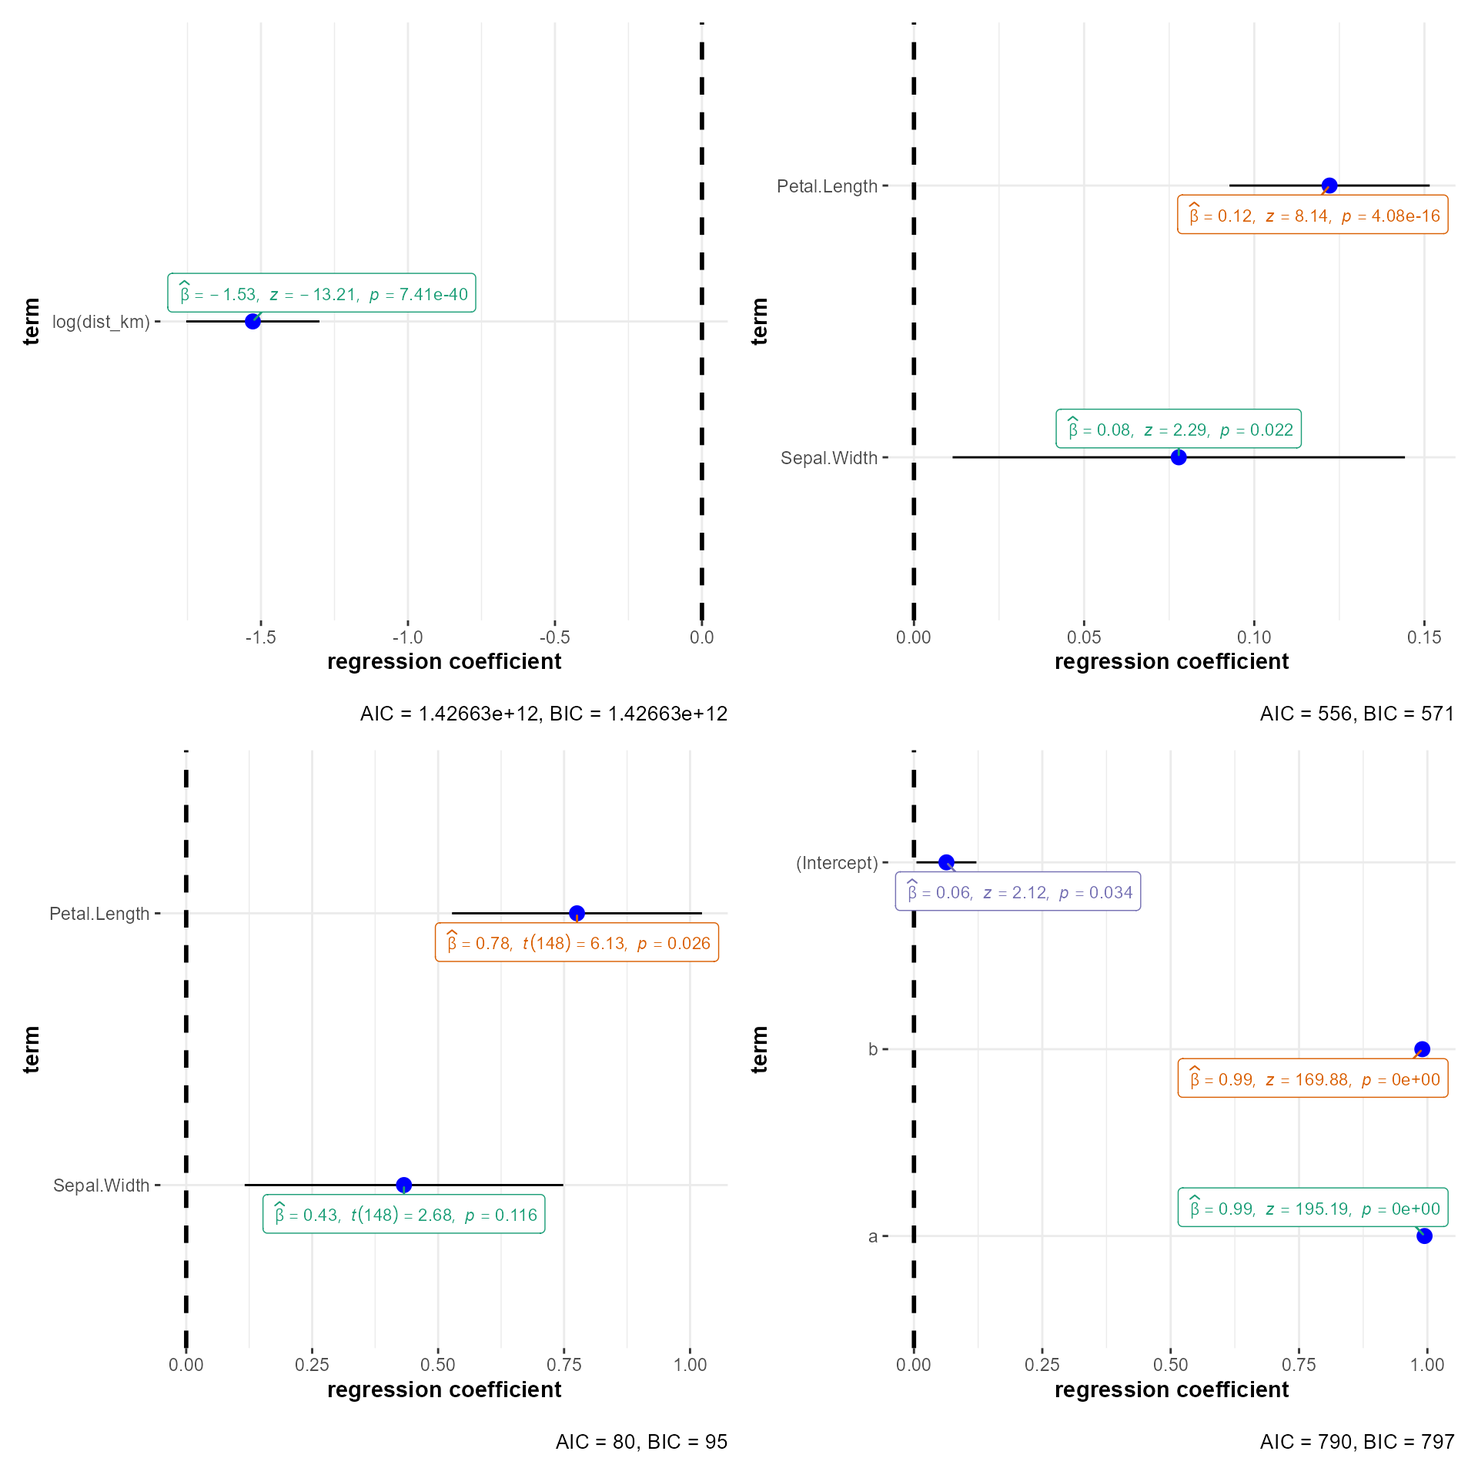
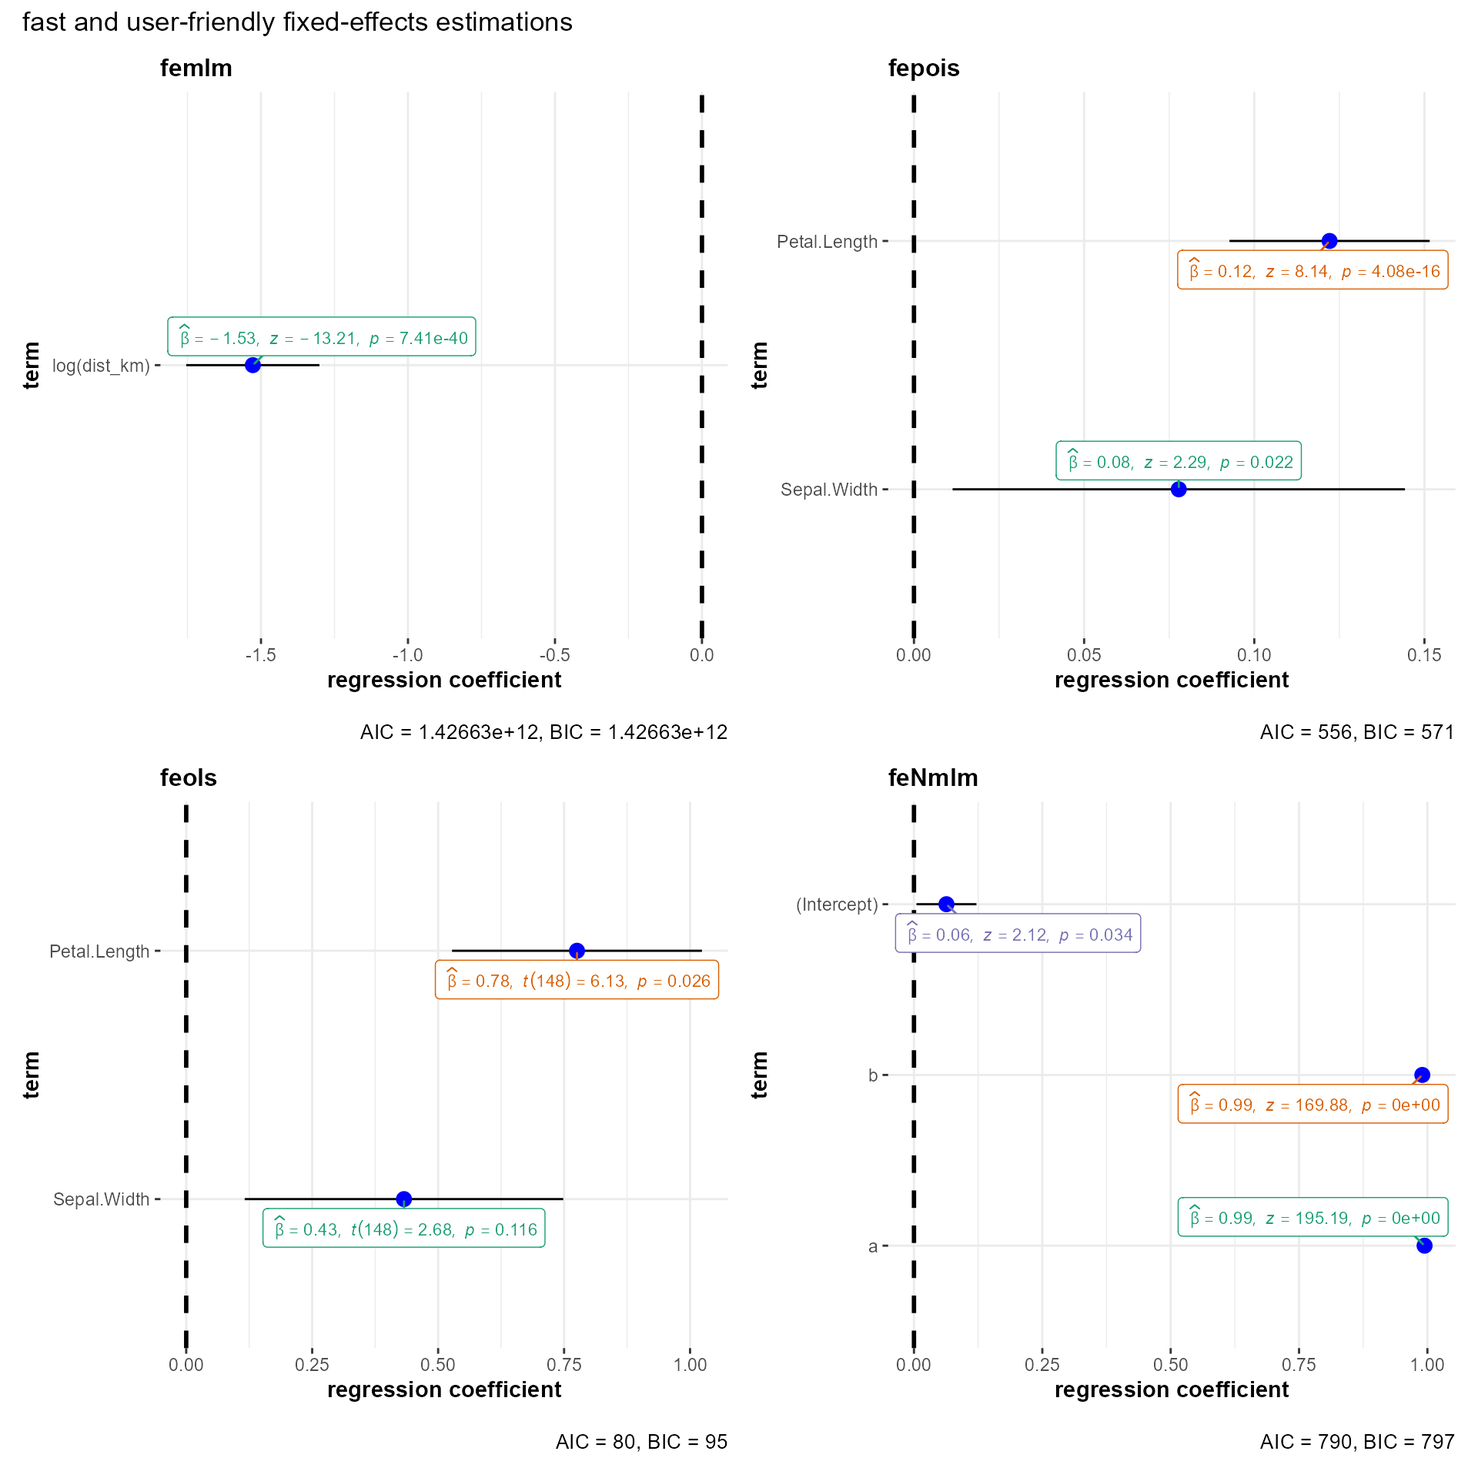
minor

diff --git a/docs/articles/web_only/ggcoefstats.html b/docs/articles/web_only/ggcoefstats.html
@@ -159,7 +159,7 @@
       <h1 data-toc-skip>ggcoefstats</h1>
                         <h4 data-toc-skip class="author">Indrajeet Patil</h4>
             
-            <h4 data-toc-skip class="date">2021-03-02</h4>
+            <h4 data-toc-skip class="date">2021-03-03</h4>
       
       <small class="dont-index">Source: <a href="https://github.com/IndrajeetPatil/ggstatsplot/blob/master/vignettes/web_only/ggcoefstats.Rmd" class="external-link"><code>vignettes/web_only/ggcoefstats.Rmd</code></a></small>
       <div class="hidden name"><code>ggcoefstats.Rmd</code></div>
@@ -262,8 +262,7 @@
   x <span class="op">=</span> <span class="va">marginal</span>,
   point.args <span class="op">=</span> <span class="fu"><a href="https://rdrr.io/r/base/list.html" class="external-link">list</a></span><span class="op">(</span>color <span class="op">=</span> <span class="st">"darkgreen"</span>, shape <span class="op">=</span> <span class="fl">9</span><span class="op">)</span>,
   title <span class="op">=</span> <span class="st">"summary grid from `emmeans` package"</span>
-<span class="op">)</span>
-<span class="co">#&gt; Objects of class 'NULL' are currently not supported.</span></code></pre></div>
+<span class="op">)</span></code></pre></div>
 <p><img src="ggcoefstats_files/figure-html/emmGrid-1.png" width="480"></p>
 <p>Another example with output containing effect sizes</p>
 <div class="sourceCode" id="cb3"><pre class="downlit sourceCode r">
@@ -280,8 +279,7 @@
 <span class="fu"><a href="../../reference/ggcoefstats.html">ggcoefstats</a></span><span class="op">(</span>
   x <span class="op">=</span> <span class="va">es</span>,
   title <span class="op">=</span> <span class="st">"summary grid with effect sizes\nfrom `emmeans` package"</span>
-<span class="op">)</span>
-<span class="co">#&gt; Objects of class 'NULL' are currently not supported.</span></code></pre></div>
+<span class="op">)</span></code></pre></div>
 <p><img src="ggcoefstats_files/figure-html/emmGrid2-1.png" width="480"></p>
 </div>
 <div id="bayes-factor-bfbayesfactor" class="section level2">
@@ -350,14 +348,7 @@
     <span class="fu"><a href="../../reference/ggcoefstats.html">ggcoefstats</a></span><span class="op">(</span><span class="va">mod9</span>, title <span class="op">=</span> <span class="st">"proportion test"</span><span class="op">)</span>
   <span class="op">)</span>,
   annotation.args <span class="op">=</span> <span class="fu"><a href="https://rdrr.io/r/base/list.html" class="external-link">list</a></span><span class="op">(</span>title <span class="op">=</span> <span class="st">"Example from `BayesFactor` package"</span><span class="op">)</span>
-<span class="op">)</span>
-<span class="co">#&gt; Objects of class 'NULL' are currently not supported.</span>
-<span class="co">#&gt; Objects of class 'NULL' are currently not supported.</span>
-<span class="co">#&gt; Objects of class 'NULL' are currently not supported.</span>
-<span class="co">#&gt; Objects of class 'NULL' are currently not supported.</span>
-<span class="co">#&gt; Objects of class 'NULL' are currently not supported.</span>
-<span class="co">#&gt; Objects of class 'NULL' are currently not supported.</span>
-<span class="co">#&gt; Objects of class 'NULL' are currently not supported.</span></code></pre></div>
+<span class="op">)</span></code></pre></div>
 <p><img src="ggcoefstats_files/figure-html/BFBayesFactor-1.png" width="960"></p>
 </div>
 <div id="omnibus-anova-aov" class="section level2">
@@ -501,8 +492,7 @@
 <span class="fu"><a href="../../reference/ggcoefstats.html">ggcoefstats</a></span><span class="op">(</span>
   x <span class="op">=</span> <span class="va">mod_Anova</span>,
   title <span class="op">=</span> <span class="st">"Anova with `car`"</span>
-<span class="op">)</span>
-<span class="co">#&gt; Objects of class 'NULL' are currently not supported.</span></code></pre></div>
+<span class="op">)</span></code></pre></div>
 <p><img src="ggcoefstats_files/figure-html/Anova-1.png" width="576"></p>
 </div>
 <div id="anova-with-car-package-on-multiple-linear-models-anova-mlm" class="section level2">
@@ -866,8 +856,7 @@
 <span class="fu"><a href="../../reference/ggcoefstats.html">ggcoefstats</a></span><span class="op">(</span>
   x <span class="op">=</span> <span class="va">multi.arr</span>,
   title <span class="op">=</span> <span class="st">"risk regression"</span>
-<span class="op">)</span>
-<span class="co">#&gt; Objects of class 'NULL' are currently not supported.</span></code></pre></div>
+<span class="op">)</span></code></pre></div>
 <p><img src="ggcoefstats_files/figure-html/riskRegression-1.png" width="576"></p>
 </div>
 <div id="aalens-additive-regression-model-for-censored-data-aareg" class="section level2">
@@ -1072,8 +1061,7 @@
   x <span class="op">=</span> <span class="va">mod_nls</span>,
   title <span class="op">=</span> <span class="st">"non-linear least squares regression"</span>,
   subtitle <span class="op">=</span> <span class="st">"Non-linear relationship between budget and rating"</span>
-<span class="op">)</span>
-<span class="co">#&gt; Objects of class 'NULL' are currently not supported.</span></code></pre></div>
+<span class="op">)</span></code></pre></div>
 <p><img src="ggcoefstats_files/figure-html/nls-1.png" width="480"></p>
 </div>
 <div id="conditional-generalized-linear-models-for-clustered-data-cglm" class="section level2">
@@ -1578,8 +1566,7 @@
 <span class="fu"><a href="../../reference/ggcoefstats.html">ggcoefstats</a></span><span class="op">(</span>
   x <span class="op">=</span> <span class="va">mod.mcml1</span>,
   title <span class="op">=</span> <span class="st">"Fitting Generalized Linear Mixed Models using MCML"</span>
-<span class="op">)</span>
-<span class="co">#&gt; Objects of class 'NULL' are currently not supported.</span></code></pre></div>
+<span class="op">)</span></code></pre></div>
 <p><img src="ggcoefstats_files/figure-html/glmm-1.png" width="480"></p>
 </div>
 <div id="fitting-negative-binomial-glmm-glmer-nb" class="section level2">
@@ -1741,7 +1728,6 @@
   x <span class="op">=</span> <span class="va">mod_varest</span>,
   title <span class="op">=</span> <span class="st">"Vector autoregression models"</span>
 <span class="op">)</span>
-<span class="co">#&gt; Objects of class 'NULL' are currently not supported.</span>
 <span class="co">#&gt; Warning: Number of labels is greater than default palette color count.</span>
 <span class="co">#&gt;  Try using another color `palette` (and/or `package`).</span></code></pre></div>
 <p><img src="ggcoefstats_files/figure-html/varest-1.png" width="672"></p>
@@ -1810,8 +1796,7 @@
 <span class="fu"><a href="../../reference/ggcoefstats.html">ggcoefstats</a></span><span class="op">(</span>
   x <span class="op">=</span> <span class="va">ans</span>,
   title <span class="op">=</span> <span class="st">"Constrained Generalized Additive Mixed-Effects Model Fitting"</span>
-<span class="op">)</span>
-<span class="co">#&gt; Objects of class 'NULL' are currently not supported.</span></code></pre></div>
+<span class="op">)</span></code></pre></div>
 <p><img src="ggcoefstats_files/figure-html/cgamm-1.png" width="672"></p>
 </div>
 <div id="shape-constrained-additive-models-scam" class="section level2">
@@ -2398,8 +2383,7 @@
 <span class="fu"><a href="../../reference/ggcoefstats.html">ggcoefstats</a></span><span class="op">(</span>
   x <span class="op">=</span> <span class="va">mod_semLm</span>,
   title <span class="op">=</span> <span class="st">"Linear Regression with \nInterval-Censored Dependent Variable"</span>
-<span class="op">)</span>
-<span class="co">#&gt; Objects of class 'NULL' are currently not supported.</span></code></pre></div>
+<span class="op">)</span></code></pre></div>
 <p><img src="ggcoefstats_files/figure-html/semLm-1.png" width="576"></p>
 </div>
 <div id="linear-mixed-regression-with-interval-censored-dependent-variable-semlme" class="section level2">
@@ -3034,8 +3018,7 @@
 <span class="co">#&gt; differentiating variance function -- may take a while</span>
 <span class="co">#&gt; </span>
 <span class="co">#&gt; differentiating mean function -- may take a while</span>
-<span class="co">#&gt; differentiating variance function -- may take a while</span>
-<span class="co">#&gt; Objects of class 'NULL' are currently not supported.</span></code></pre></div>
+<span class="co">#&gt; differentiating variance function -- may take a while</span></code></pre></div>
 <p><img src="ggcoefstats_files/figure-html/nlreg-1.png" width="480"></p>
 </div>
 <div id="fit-a-linear-model-with-multiple-group-fixed-effects-felm" class="section level2">
@@ -3534,8 +3517,7 @@
   title <span class="op">=</span> <span class="st">"relative risk regression model"</span>,
   subtitle <span class="op">=</span> <span class="st">"(for case-cohort studies)"</span>,
   conf.level <span class="op">=</span> <span class="fl">0.99</span>
-<span class="op">)</span>
-<span class="co">#&gt; Objects of class 'NULL' are currently not supported.</span></code></pre></div>
+<span class="op">)</span></code></pre></div>
 <p><img src="ggcoefstats_files/figure-html/cch-1.png" width="576"></p>
 </div>
 <div id="ridge-regression-ridgelm" class="section level2">
@@ -3555,8 +3537,7 @@
 <span class="fu"><a href="../../reference/ggcoefstats.html">ggcoefstats</a></span><span class="op">(</span>
   x <span class="op">=</span> <span class="va">mod_ridgelm</span>,
   title <span class="op">=</span> <span class="st">"ridge regression"</span>
-<span class="op">)</span>
-<span class="co">#&gt; Objects of class 'NULL' are currently not supported.</span></code></pre></div>
+<span class="op">)</span></code></pre></div>
 <p><img src="ggcoefstats_files/figure-html/ridgelm-1.png" width="480"></p>
 </div>
 <div id="generalized-additive-models-with-integrated-smoothness-estimation-gam" class="section level2">
@@ -3808,8 +3789,7 @@
   x <span class="op">=</span> <span class="va">Dat.nlrq</span>,
   title <span class="op">=</span> <span class="st">"non-linear quantile regression"</span>,
   se.type <span class="op">=</span> <span class="st">"nid"</span>
-<span class="op">)</span>
-<span class="co">#&gt; Objects of class 'NULL' are currently not supported.</span></code></pre></div>
+<span class="op">)</span></code></pre></div>
 <p><img src="ggcoefstats_files/figure-html/nlrq-1.png" width="480"></p>
 </div>
 <div id="additive-quantile-regression-rqss" class="section level2">
@@ -4147,7 +4127,6 @@
   palette <span class="op">=</span> <span class="st">"victreebel"</span>,
   title <span class="op">=</span> <span class="st">"generalized method of moment estimation"</span>
 <span class="op">)</span>
-<span class="co">#&gt; Objects of class 'NULL' are currently not supported.</span>
 <span class="co">#&gt; Warning: Number of labels is greater than default palette color count.</span>
 <span class="co">#&gt;  Try using another color `palette` (and/or `package`).</span></code></pre></div>
 <p><img src="ggcoefstats_files/figure-html/gmm-1.png" width="480"></p>
@@ -4293,8 +4272,7 @@
 <span class="fu"><a href="../../reference/ggcoefstats.html">ggcoefstats</a></span><span class="op">(</span>
   x <span class="op">=</span> <span class="va">mod_bayesGARCH</span>,
   title <span class="op">=</span> <span class="st">"Bayesian Estimation of the GARCH(1,1) Model \nwith Student-t Innovations"</span>
-<span class="op">)</span>
-<span class="co">#&gt; Objects of class 'NULL' are currently not supported.</span></code></pre></div>
+<span class="op">)</span></code></pre></div>
 <p><img src="ggcoefstats_files/figure-html/bayesGARCH-1.png" width="480"></p>
 </div>
 <div id="maximum-likelihood-fitting-of-univariate-distributions-fitdistr" class="section level2">
@@ -4374,8 +4352,7 @@
 <span class="fu"><a href="../../reference/ggcoefstats.html">ggcoefstats</a></span><span class="op">(</span>
   x <span class="op">=</span> <span class="va">mod_glht</span>,
   title <span class="op">=</span> <span class="st">"General Linear Hypotheses (using `multcomp`)"</span>
-<span class="op">)</span>
-<span class="co">#&gt; Objects of class 'NULL' are currently not supported.</span></code></pre></div>
+<span class="op">)</span></code></pre></div>
 <p><img src="ggcoefstats_files/figure-html/glht-1.png" width="576"></p>
 </div>
 <div id="cochrane-orcutt-estimation-orcutt" class="section level2">
@@ -4394,8 +4371,7 @@
 <span class="fu"><a href="../../reference/ggcoefstats.html">ggcoefstats</a></span><span class="op">(</span>
   x <span class="op">=</span> <span class="va">co</span>,
   title <span class="op">=</span> <span class="st">"Cochrane-Orcutt estimation"</span>
-<span class="op">)</span>
-<span class="co">#&gt; Objects of class 'NULL' are currently not supported.</span></code></pre></div>
+<span class="op">)</span></code></pre></div>
 <p><img src="ggcoefstats_files/figure-html/orcutt-1.png" width="480"></p>
 </div>
 <div id="confusion-matrix-confusionmatrix" class="section level2">
@@ -4444,8 +4420,7 @@
   x <span class="op">=</span> <span class="va">mod_drc</span>,
   conf.level <span class="op">=</span> <span class="fl">0.99</span>,
   title <span class="op">=</span> <span class="st">"Dose-Response Curves"</span>
-<span class="op">)</span>
-<span class="co">#&gt; Objects of class 'NULL' are currently not supported.</span></code></pre></div>
+<span class="op">)</span></code></pre></div>
 <p><img src="ggcoefstats_files/figure-html/drc-1.png" width="480"></p>
 </div>
 <div id="firths-bias-reduced-logistic-regression-logitsf" class="section level2">
@@ -4872,8 +4847,7 @@
   title <span class="op">=</span> <span class="st">"Markov Chain Monte Carlo objects"</span>,
   robust <span class="op">=</span> <span class="cn">TRUE</span>,
   ess <span class="op">=</span> <span class="cn">TRUE</span>
-<span class="op">)</span>
-<span class="co">#&gt; Objects of class 'NULL' are currently not supported.</span></code></pre></div>
+<span class="op">)</span></code></pre></div>
 <p><img src="ggcoefstats_files/figure-html/mcmc-1.png" width="480"></p>
 </div>
 <div id="mcmc-with-just-another-gibbs-sampler-rjags" class="section level2">
@@ -5094,8 +5068,7 @@ speed =~ x7 + x8 + x9 "</span>
 <span class="fu">ggstatsplot</span><span class="fu">::</span><span class="fu"><a href="../../reference/ggcoefstats.html">ggcoefstats</a></span><span class="op">(</span>
   x <span class="op">=</span> <span class="va">mod_bayesqr</span>,
   title <span class="op">=</span> <span class="st">"Bayesian quantile regression"</span>
-<span class="op">)</span>
-<span class="co">#&gt; Objects of class 'NULL' are currently not supported.</span></code></pre></div>
+<span class="op">)</span></code></pre></div>
 <p><img src="ggcoefstats_files/figure-html/bayesQR-1.png" width="576"></p>
 </div>
 <div id="bayesian-binary-and-ordinal-logistic-regression-blrm" class="section level2">
@@ -5119,8 +5092,7 @@ speed =~ x7 + x8 + x9 "</span>
   x <span class="op">=</span> <span class="va">mod_blrm</span>,
   title <span class="op">=</span> <span class="st">"Bayesian binary and ordinal logistic regression"</span>
 <span class="op">)</span>
-<span class="co">#&gt; NULL</span>
-<span class="co">#&gt; Objects of class 'NULL' are currently not supported.</span></code></pre></div>
+<span class="co">#&gt; NULL</span></code></pre></div>
 <p><img src="ggcoefstats_files/figure-html/blrm-1.png" width="960"></p>
 </div>
 <div id="compound-poisson-generalized-linear-models-cpglm" class="section level2">
@@ -5192,8 +5164,7 @@ speed =~ x7 + x8 + x9 "</span>
   x <span class="op">=</span> <span class="va">mod_bcplm</span>,
   title <span class="op">=</span> <span class="st">"Bayesian Compound Poisson Linear Models"</span>
 <span class="op">)</span>
-<span class="co">#&gt; NULL</span>
-<span class="co">#&gt; Objects of class 'NULL' are currently not supported.</span></code></pre></div>
+<span class="co">#&gt; NULL</span></code></pre></div>
 <p><img src="ggcoefstats_files/figure-html/bcplm-1.png" width="960"></p>
 </div>
 <div id="multivariate-imputation-by-chained-equations-mice" class="section level2">
@@ -5235,8 +5206,7 @@ speed =~ x7 + x8 + x9 "</span>
 <span class="fu"><a href="../../reference/ggcoefstats.html">ggcoefstats</a></span><span class="op">(</span>
   x <span class="op">=</span> <span class="fu"><a href="https://rdrr.io/r/base/with.html" class="external-link">with</a></span><span class="op">(</span>data <span class="op">=</span> <span class="va">imp</span>, exp <span class="op">=</span> <span class="fu"><a href="https://rdrr.io/pkg/VGAM/man/notdocumentedyet.html" class="external-link">lm</a></span><span class="op">(</span><span class="va">bmi</span> <span class="op">~</span> <span class="va">age</span> <span class="op">+</span> <span class="va">hyp</span> <span class="op">+</span> <span class="va">chl</span><span class="op">)</span><span class="op">)</span>,
   title <span class="op">=</span> <span class="st">"Multivariate Imputation by Chained Equations"</span>
-<span class="op">)</span>
-<span class="co">#&gt; Objects of class 'NULL' are currently not supported.</span></code></pre></div>
+<span class="op">)</span></code></pre></div>
 <p><img src="ggcoefstats_files/figure-html/mice-1.png" width="576"></p>
 </div>
 <div id="estimations-with-multiple-fixed-effects-fixest" class="section level2">
@@ -5286,13 +5256,13 @@ speed =~ x7 + x8 + x9 "</span>
 <span class="co"># combining plots</span>
 <span class="fu"><a href="../../reference/combine_plots.html">combine_plots</a></span><span class="op">(</span>
   plotlist <span class="op">=</span> <span class="fu"><a href="https://rdrr.io/r/base/list.html" class="external-link">list</a></span><span class="op">(</span>
-    <span class="fu"><a href="../../reference/ggcoefstats.html">ggcoefstats</a></span><span class="op">(</span><span class="va">mod_fx1</span><span class="op">)</span>,
-    <span class="fu"><a href="../../reference/ggcoefstats.html">ggcoefstats</a></span><span class="op">(</span><span class="va">mod_fx2</span><span class="op">)</span>,
-    <span class="fu"><a href="../../reference/ggcoefstats.html">ggcoefstats</a></span><span class="op">(</span><span class="va">mod_fx3</span><span class="op">)</span>,
-    <span class="fu"><a href="../../reference/ggcoefstats.html">ggcoefstats</a></span><span class="op">(</span><span class="va">mod_fx4</span><span class="op">)</span>
+    <span class="fu"><a href="../../reference/ggcoefstats.html">ggcoefstats</a></span><span class="op">(</span><span class="va">mod_fx1</span>, title <span class="op">=</span> <span class="st">"femlm"</span><span class="op">)</span>,
+    <span class="fu"><a href="../../reference/ggcoefstats.html">ggcoefstats</a></span><span class="op">(</span><span class="va">mod_fx2</span>, title <span class="op">=</span> <span class="st">"fepois"</span><span class="op">)</span>,
+    <span class="fu"><a href="../../reference/ggcoefstats.html">ggcoefstats</a></span><span class="op">(</span><span class="va">mod_fx3</span>, title <span class="op">=</span> <span class="st">"feols"</span><span class="op">)</span>,
+    <span class="fu"><a href="../../reference/ggcoefstats.html">ggcoefstats</a></span><span class="op">(</span><span class="va">mod_fx4</span>, title <span class="op">=</span> <span class="st">"feNmlm"</span><span class="op">)</span>
   <span class="op">)</span>,
   labels <span class="op">=</span> <span class="st">"auto"</span>,
-  title.text <span class="op">=</span> <span class="st">"fast and user-friendly fixed-effects estimations"</span>
+  annotation.args <span class="op">=</span> <span class="fu"><a href="https://rdrr.io/r/base/list.html" class="external-link">list</a></span><span class="op">(</span>title <span class="op">=</span> <span class="st">"fast and user-friendly fixed-effects estimations"</span><span class="op">)</span>
 <span class="op">)</span></code></pre></div>
 <p><img src="ggcoefstats_files/figure-html/fixest-1.png" width="960"></p>
 </div>
@@ -5563,7 +5533,6 @@ speed =~ x7 + x8 + x9 "</span>
 
 <span class="co"># tidy dataframe</span>
 <span class="fu"><a href="../../reference/ggcoefstats.html">ggcoefstats</a></span><span class="op">(</span><span class="va">nlmod</span>, output <span class="op">=</span> <span class="st">"tidy"</span><span class="op">)</span>
-<span class="co">#&gt; Objects of class 'NULL' are currently not supported.</span>
 <span class="co">#&gt; # A tibble: 3 x 10</span>
 <span class="co">#&gt;   term  estimate std.error conf.level conf.low conf.high statistic df.error</span>
 <span class="co">#&gt;   &lt;fct&gt;    &lt;dbl&gt;     &lt;dbl&gt;      &lt;dbl&gt;    &lt;dbl&gt;     &lt;dbl&gt;     &lt;dbl&gt;    &lt;int&gt;</span>
@@ -5583,7 +5552,6 @@ speed =~ x7 + x8 + x9 "</span>
 
 <span class="co"># glance summary</span>
 <span class="fu"><a href="../../reference/ggcoefstats.html">ggcoefstats</a></span><span class="op">(</span><span class="va">nlmod</span>, output <span class="op">=</span> <span class="st">"glance"</span><span class="op">)</span>
-<span class="co">#&gt; Objects of class 'NULL' are currently not supported.</span>
 <span class="co">#&gt; # A tibble: 0 x 0</span></code></pre></div>
 </div>
 <div id="not-supported" class="section level1">
